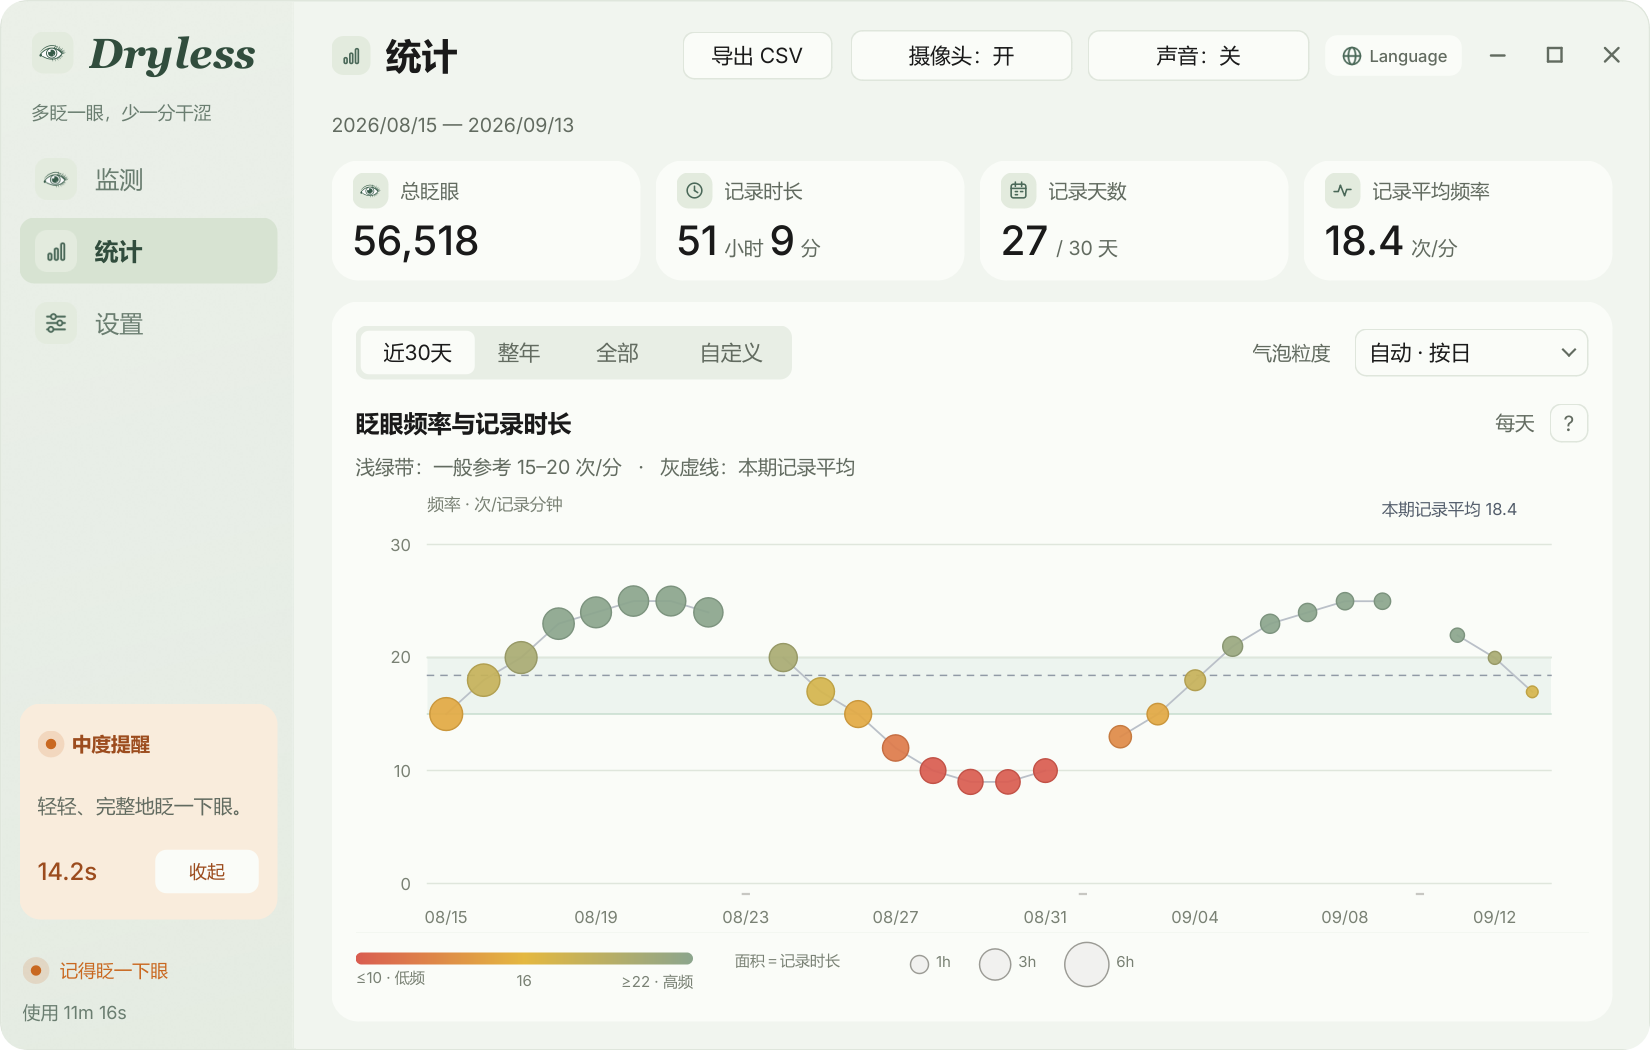
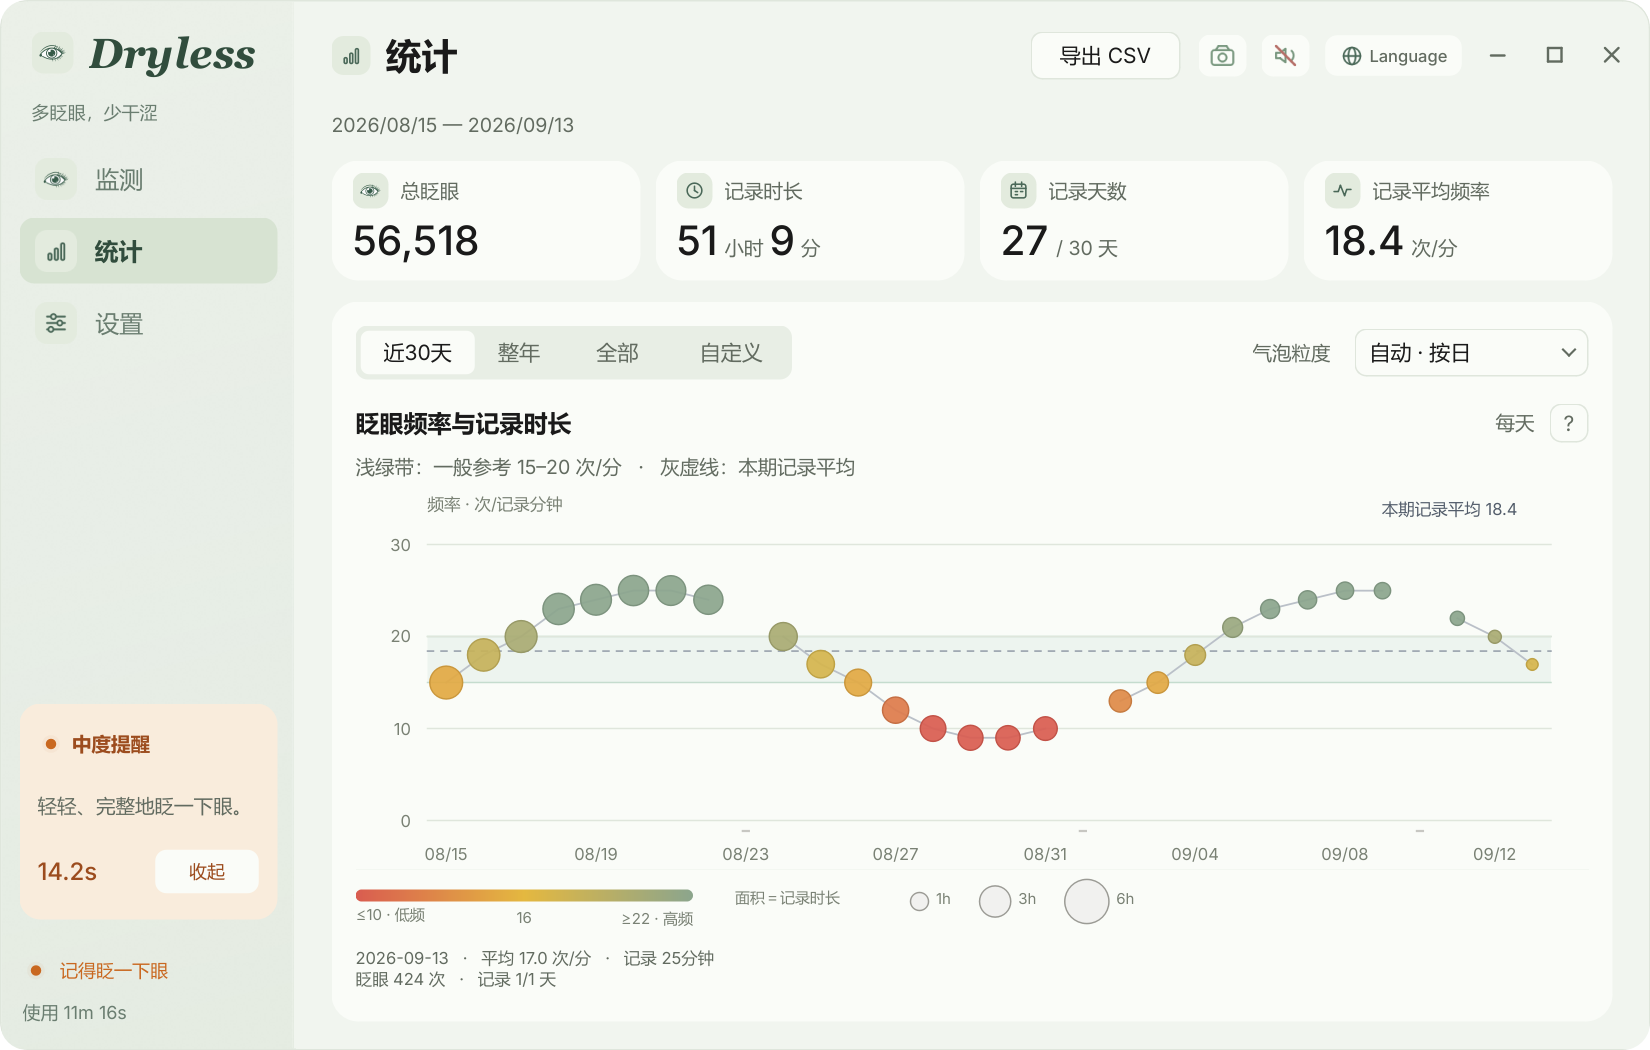
Document validated Windows rc.8 controls, sound preview and desktop delivery

diff --git a/docs/release/windows-rc8.md b/docs/release/windows-rc8.md
@@ -1,0 +1,35 @@
+# Windows rc.8 · 悬停、顶部控件和频率口径
+
+- 中文标语为“多眨眼，少干涩”；英文仍为“Blink more, dry less”。
+- Windows桌面图标沿用原眼睛轮廓和透明背景，由应用既有图标渲染器导出浅绿色#78977E，包含16至256像素七种尺寸；原始图标资源保留。快捷方式统一命名Dryless。
+- 原版音色的显示名改为Ding，资源键original及原有音频文件不变。点击任意音色播放第一档一次，再次点击也可重听。
+  “试听三档”仍播放三档；点三档按钮会替换当前单声试听，快速切换取消旧声音，微休息优先级不变。不添加操作说明文案。
+- 摄像头与声音使用对应的小图标按钮，关闭时同一图标叠加柔和红色斜线；与 Language 同为28像素高。
+  双语不改变按钮大小；可访问名称保留开关状态，托盘菜单保留文字操作项。
+- 清除当前桌面代码中的17处非空悬停提示入口（16处setToolTip、1处显式showText），移除黑色QToolTip样式。
+  QApplication拦截自动ToolTip事件及显式ToolTip窗口；原生托盘提示为空。主动打开的菜单和图表说明仍可用。
+- 气泡日期、频率、时长、计数、天数及部分周期信息显示在图内固定两行区域，鼠标与键盘选择均不遮挡图表或移动页面。
+- 频率口径：有效识别期间的眨眼次数 × 60 / 同期有效识别秒数。30秒有效识别、10次眨眼，圆环、单分钟色块和均值均为20次/分钟。
+  首次采样、重获识别且无连续有效时间、重复时间戳的事件不再单独进入分子。
+  有效识别不足30秒仍为缺测；旧窗口边界和缺测规则保留，不以30次为上限。
+
+## 验证
+
+- `python -B -m unittest discover -s tests -q`：32项。
+- `python -B tools/qa_live_metrics.py`：24项，包含30秒/10次示例从统计到页面的验证。
+- `python -B tools/qa_no_hover_popups.py`：87项，含暂停长悬停、全页扫描、中英状态刷新、显式tooltip回归、菜单与图内明细。
+- `python -B tools/qa_ui.py`：186项；1100×700、1240×780、中英、三页与设置各标签，无竖向滚动或布局越界。
+- `python -B tools/qa_ui_consistency.py`：227项；原状态图标、双语按钮、托盘一致。
+- `python -B tools/qa_camera_windows.py`：38项合成摄像头生命周期检查。
+- `python -B tools/qa_sound_selection.py`：50项选择即试听、重复点击、单声切三档、取消和双语检查。
+- `python -B tools/qa_reminders_windows.py`：66项提醒、原声音资源与优先级检查。
+- `python -B build.py`、包内`--self-test`通过；源提交与哈希见windows-rc8-validation.json。
+- 处理了测试脚本在未运行app.exec时的原生控件析构顺序，断言后显式刷新DeferredDelete，测试进程正常退出。
+
+## 范围与限制
+
+按用户最终要求保留原有眨眼检测算法，不引入新的检测阈值、抗抖动或频率封顶。
+修正统计事件与有效时间的一致性，不声称已解决模型原始计数偏高。既有记录不删除、不重写。
+历史统计仍为旧的已保存分钟口径；旧文件没有有效眼部识别秒数，不能追算成相同的有效时长频率。
+未重测真人摄像头精度、20分钟真实等待或Mac真机，不代表F2全部完成。
+缺失日期的短虚线连接仅为讨论建议，当前气泡图仍保持缺失处断开，没有补造气泡。

diff --git a/docs/FEATURE_PARITY.md b/docs/FEATURE_PARITY.md
@@ -7,7 +7,7 @@
 ## 1. 产品与模块边界
 
 Dryless 在本机检测眨眼，在持续未眨眼时给予递进提示，并在长时间连续在场后提醒微休息。
-产品固定文案：**Blink more, dry less**；中文：**多眨一眼，少一分干涩**。
+产品固定文案：**Blink more, dry less**；中文：**多眨眼，少干涩**。
 品牌名称、现有详细人眼 Logo 保留。2026-09-13用户要求新增同一原眼睛的闭眼版本；睁眼原资源保留。运行时睁眼、未运行闭眼，品牌小图/页面/任务栏/托盘同步；暂停提醒不关闭眼睛。
 
 | 模块 | 对用户负责的功能 |
@@ -91,6 +91,14 @@ Windows 的 MediaPipe 与 Mac 的 Vision 可以是不同适配器；提醒、统
 - 距上次眨眼显示实际间隔；进度使用提醒有效等待时间，标记T/T+I/T+2I。眨眼重置，超过末档停在满格，暂停或微休息时不继续填充。
 - 微休息进度取真实连续在场计时，与应用运行时长分离；遵守第5节现有20分钟规则。首页大指标由上述三项承担，累计计数仍在会话/历史数据中保留。
 - 节律色块与颜色图例不显示悬停窗；窄格的精确值可点击/键盘选择后直接显示在图内。历史气泡保留包含日期、频率、时长的有效明细。
+
+### 2026-09-13 补充口径与交互（Windows rc.8）
+
+- 用户确认：有效眼部识别30秒、期间10次眨眼，折算20次/分钟；分子与分母必须来自同一有效区间。
+  丢失识别和不连续采样不单独贡献分子；不为了降低显示值修改检测阈值或封顶。
+- 所有页面、控件和图例均无自动悬停窗。图表精确值放在固定图内区域；主动点击打开的菜单/帮助保留。
+- 中文标语“多眨眼，少干涩”；英文“Blink more, dry less”。顶部摄像头/声音使用对应图标及关闭斜线，保持可访问名称与托盘文字状态。
+- 原版音色显示名为Ding，内部资源键original保持不变。点击音色试听首档一次，独立按钮试听三档；任意切换先取消旧试听，不新增说明文案。
 
 ## 4. 三档眨眼提醒与音频
 

diff --git a/docs/START_HERE.md b/docs/START_HERE.md
@@ -3,10 +3,13 @@
 目标：在同一 GitHub Release 发布同一版本号的 Windows 与 Mac 应用。
 功能一致；整体布局一致；窗口、菜单栏、字体回退等细节遵循各自系统。
 
-## Windows 已实施更新（rc.7）
-提醒已从挤压主界面的底部横条移到左侧固定卡片区域；三页、双语、三档提醒及收起/暂停/微休息均不改变页面尺寸。
-保留rc.6的60秒滑动频率、未眨眼进度、连续在场微休息进度与柔和统一配色。
-见 [release/windows-rc7.md](release/windows-rc7.md) 与 [release/windows-rc6.md](release/windows-rc6.md)。F2其余缺口不因此标为完成。
+## Windows 已实施更新（rc.8）
+清除自动悬停窗并加入全局拦截；气泡明细固定显示在图内。
+顶部摄像头/声音为图标按钮，关闭时加斜线，与Language等高；中文标语为“多眨眼，少干涩”。
+频率按同期有效识别秒数折算：30秒10次=20次/分钟。检测算法保持原样。
+原版音色显示名改为Ding；点音色试听首档一次，保留“试听三档”。
+保留rc.7左侧固定提醒卡与rc.6实时指标。见 [release/windows-rc8.md](release/windows-rc8.md)。
+F2其余缺口不因此标为完成。
 
 ## 当前接力顺序（2026-09-13初次审查记录）
 0. 暂不合并/替换 main，不公开正式 Release。
@@ -28,7 +31,7 @@ GitHub 分支/PR + 本目录交接文档是共同记录。登录相同 Codex 账
 需要对方处理的问题写在 PR 描述/评论中，明确文件、复现步骤与预期行为。
 不要同时修改同一共享模块；Mac API 适配尽量放独立模块。
 
-版本：version.py；候选：0.2.0-rc.7；正式目标：0.2.0。
+版本：version.py；候选：0.2.0-rc.8；正式目标：0.2.0。
 目前 Mac 尚未验收；不得把 Windows 构建成功称为双平台完成。
 
 ## 当前布局参考（合成测试数据和摄像头占位图）

diff --git a/docs/release/windows.md b/docs/release/windows.md
@@ -1,5 +1,9 @@
 # Windows acceptance — candidate built and locally verified
 
+最新候选：0.2.0-rc.8。验证记录见 [windows-rc8.md](windows-rc8.md)，源提交和包哈希见 [windows-rc8-validation.json](windows-rc8-validation.json)。
+本轮清除悬停窗、压缩顶部开关、统一有效识别频率口径、调整Ding命名和选择即试听；检测算法未变。Mac真机尚未完成共同验收。
+
+
 Date: 2026-09-13. Version: **0.2.0-rc.1**. Native platform: Windows-11-10.0.26200-SP0.
 Binary source commit: `0cb6f305f593f794fd44bb3cf6753266a910d1cf`.
 Later commits on the handoff branch only update CI, tests or documentation;
